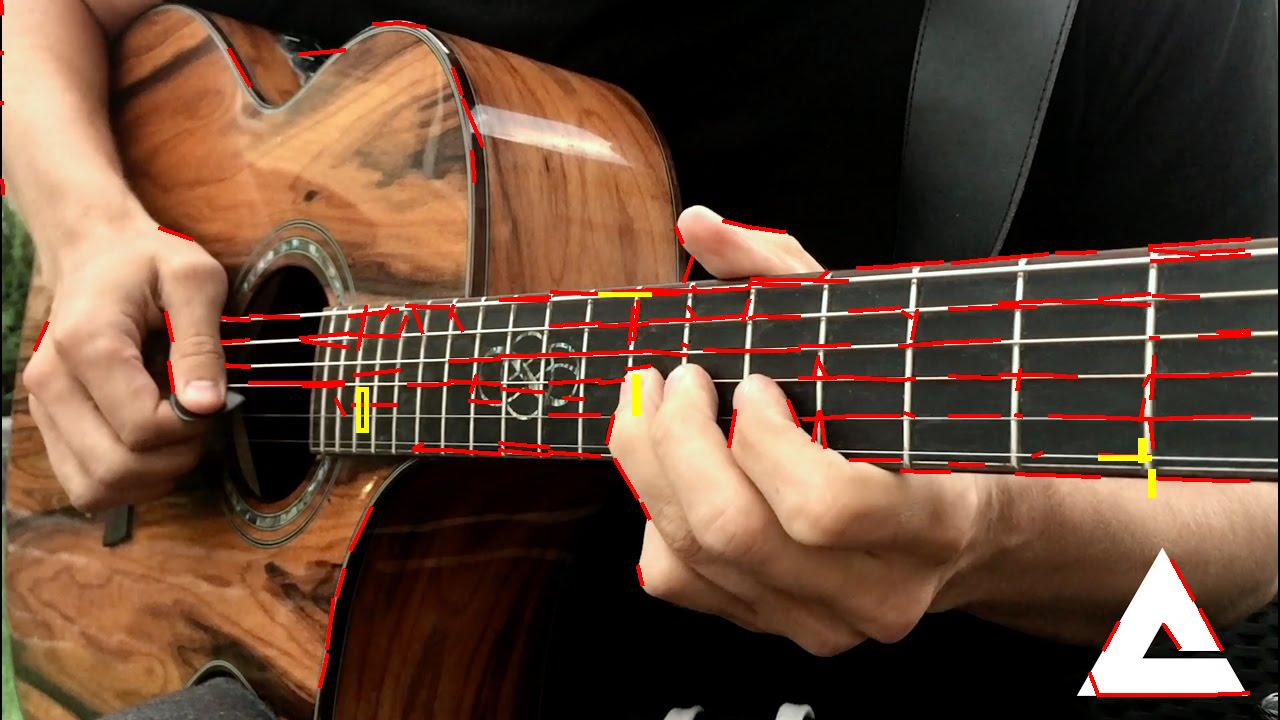
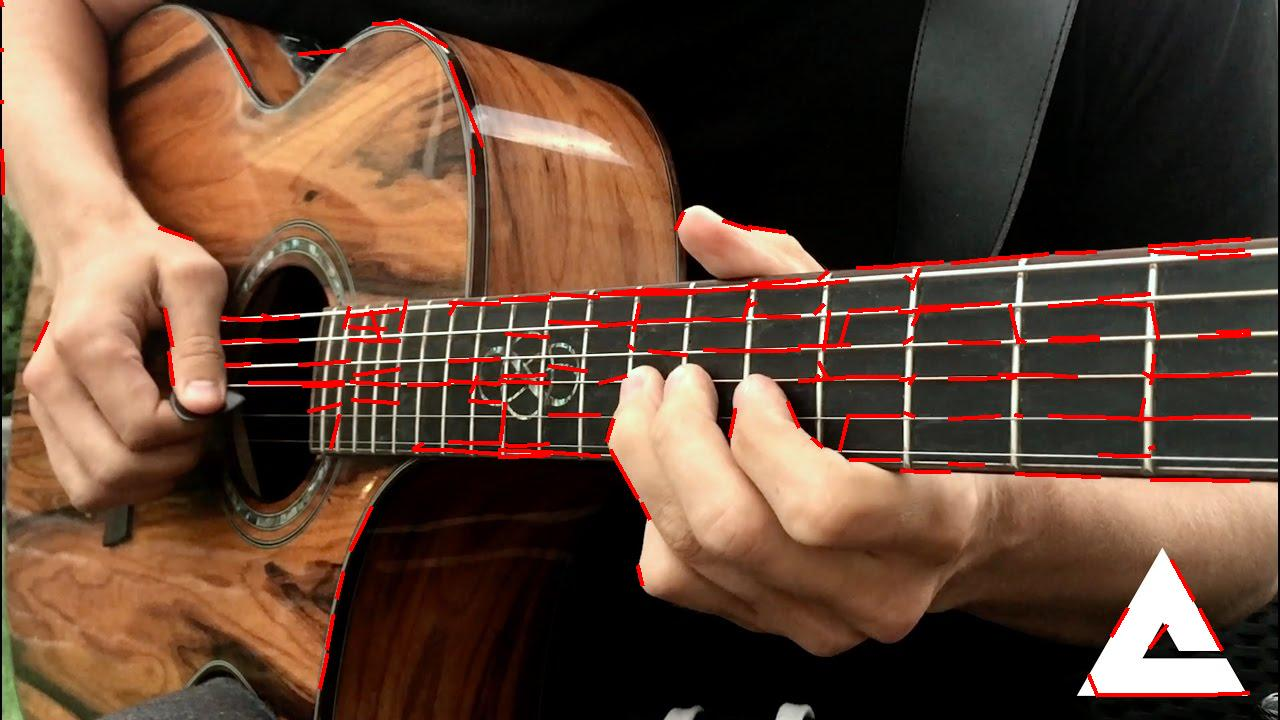
h

diff --git a/CVLab5/src/cvlab5/Ransac.java b/CVLab5/src/cvlab5/Ransac.java
@@ -9,9 +9,12 @@ import java.awt.BasicStroke;
 import java.awt.Color;
 import java.awt.Graphics2D;
 import java.awt.Point;
+import java.awt.Polygon;
 import java.awt.Rectangle;
+import java.awt.Shape;
 import java.awt.image.BufferedImage;
 import java.awt.geom.Line2D;
+import java.awt.geom.Point2D;
 import java.util.ArrayList;
 
 /**
@@ -24,8 +27,8 @@ public class Ransac {
     double inliers;
     ArrayList<Line2D> lines;
     int SAMPLEWIDTH;
-    static int ANGLE_TOLERANCE=10;
-    static int DISTANCE_TOLERANCE=15;
+    static int ANGLE_TOLERANCE=12;
+    static int DISTANCE_TOLERANCE=55;
     
     
     public Ransac(int iterations, int threshold, double inliers,int sampleWidth)
@@ -130,25 +133,86 @@ public class Ransac {
         }
         
     }
-    
-    public ArrayList<Rectangle> findRectangles()
+    public static Point getIntersect(Line2D line1, Line2D line2){
+        
+        Point2D s1,d1,s2,d2;
+        s1=line1.getP1();
+        d1=line1.getP2();
+        s2=line2.getP1();
+        d2=line2.getP2();
+        
+        double sNumerator = s1.getY() * d1.getX() + s2.getX() * d1.getY() - s1.getX() * d1.getY() - s2.getY() * d1.getX();
+        double sDenominator = d2.getY() * d1.getX() - d2.getX() * d1.getY();
+
+        // parallel ... 0 or infinite points, or one of the vectors is 0|0
+        if (sDenominator == 0) {
+            return new Point(0,0);
+        }
+
+        double s = sNumerator / sDenominator;
+
+        double t;
+        if (d1.getX() != 0) {
+            t = (s2.getX() + s * d2.getX() - s1.getX()) / d1.getX();
+        } else {
+            t = (s2.getY() + s * d2.getY() - s1.getY()) / d1.getY();
+        }
+
+        Point intersect = new Point((int)(s1.getX() + t * d1.getX()), (int)(s1.getY() + t * d1.getY()));
+
+        return intersect;
+    }
+    public void JoinLines(Line2D line1,Line2D line2)
     {
-        ArrayList<Rectangle> res=new ArrayList<>();
+            if (line1.getP2().distance(line2.getP1())<=DISTANCE_TOLERANCE) {
+                line2.setLine(line1.getP2(), line2.getP2());
+                return;
+            }
+                    
+            if (line1.getP2().distance(line2.getP2())<=DISTANCE_TOLERANCE) {
+                line2.setLine(line2.getP1(), line1.getP2());
+                return;                
+            }
+            if (line1.getP1().distance(line2.getP1())<=DISTANCE_TOLERANCE) {
+                line2.setLine(line1.getP1(), line2.getP2());
+                return;                
+            }
+            if (line1.getP1().distance(line2.getP2())<=DISTANCE_TOLERANCE) {
+                line2.setLine(line2.getP1(), line1.getP1());
+                return;                
+                
+            }
+        
+    }
+    public ArrayList<Shape> findRectangles()
+    {
+        ArrayList<Shape> res=new ArrayList<>();
         for (Line2D line:lines){
             ArrayList<Line2D> candidati=new ArrayList<Line2D>(lines);
             candidati.remove(line);
             
-            Line2D muchie1=findNextMuchie(line, candidati);
-            if (muchie1==null) continue;
-            
             Line2D muchie2=findNextMuchie(line, candidati);
             if (muchie2==null) continue;
-            
-            Line2D muchie3=findNextMuchie(line, candidati);
+            candidati.remove(muchie2);
+            Line2D muchie1=line;
+            JoinLines(muchie1, muchie2);
+                   
+            Line2D muchie3=findNextMuchie(muchie2, candidati);
             if (muchie3==null) continue;
+            candidati.remove(muchie3);
+            JoinLines(muchie2, muchie3);
             
-            Line2D muchie4=findNextMuchie(line, candidati);
+            Line2D muchie4=findNextMuchie(muchie3, candidati);
             if (muchie4==null) continue;
+            candidati.remove(muchie4);
+            JoinLines(muchie3, muchie4);
+            
+            /*
+            Point p1=getIntersect(muchie1, muchie2),
+                    p2=getIntersect(muchie2, muchie3),
+                    p3=getIntersect(muchie3, muchie4),
+                    p4=getIntersect(muchie4, muchie1)
+                    ;
             double x1=Math.min(
                     Math.min(
                         Math.min(muchie1.getX1(), muchie1.getX2()),
@@ -189,18 +253,35 @@ public class Ransac {
                         Math.max(muchie4.getY1(), muchie4.getY2())
                     )
             );
-            
             res.add(new Rectangle((int)x1,(int)y2,(int)(x2-x1),(int)(y2-y1)));
-            
-            
+            */
+            /*
+            res.add(new Polygon(
+                     new int[]{p1.x,p2.x,p3.x,p4.x},
+                     new int[]{p1.y,p2.y,p3.y,p4.y},
+                     4));
+            */
+            res.add(new Polygon(
+                     new int[]{(int)muchie1.getX1(),(int)muchie1.getX2(),
+                                (int)muchie2.getX1(),(int)muchie2.getX2(),
+                                (int)muchie3.getX1(),(int)muchie3.getX2(),
+                                (int)muchie4.getX1(),(int)muchie4.getX2()},
+                     new int[]{(int)muchie1.getY1(),(int)muchie1.getY2(),
+                                (int)muchie2.getY1(),(int)muchie2.getY2(),
+                                (int)muchie3.getY1(),(int)muchie3.getY2(),
+                                (int)muchie4.getY1(),(int)muchie4.getY2()},
+                     4));
+           
         }
         return res;
     }
     private Line2D findNextMuchie(Line2D fromline, ArrayList<Line2D> candidati)
     {
-        for(Line2D line:lines){
+        for(Line2D line:candidati){
             if ((fromline.getP2().distance(line.getP1())<=DISTANCE_TOLERANCE) ||
-                (fromline.getP2().distance(line.getP2())<=DISTANCE_TOLERANCE)){
+                (fromline.getP2().distance(line.getP2())<=DISTANCE_TOLERANCE) ||
+                (fromline.getP1().distance(line.getP1())<=DISTANCE_TOLERANCE) ||
+                (fromline.getP1().distance(line.getP2())<=DISTANCE_TOLERANCE)){
                 double angle=getAngle(fromline, line);
                 if (Math.abs(90-angle)<=ANGLE_TOLERANCE)
                     return line;

diff --git a/CVLab5/src/cvlab5/CVLab5.java b/CVLab5/src/cvlab5/CVLab5.java
@@ -9,7 +9,9 @@ import static cvlab5.Ransac.ANGLE_TOLERANCE;
 import java.awt.BasicStroke;
 import java.awt.Color;
 import java.awt.Graphics2D;
+import java.awt.Polygon;
 import java.awt.Rectangle;
+import java.awt.Shape;
 import java.awt.geom.Line2D;
 import java.awt.image.BufferedImage;
 import java.io.File;
@@ -43,25 +45,21 @@ public class CVLab5 {
         BufferedImage image2=ImageIO.read(file2);              
         rans.drawLines(image2);
 
+        Lab5Helper.writeImageFile(image2, file, "rans1");
         
         Graphics2D g2d = image2.createGraphics();
         g2d.setColor(Color.yellow);
         g2d.setPaint(Color.yellow);
-        BasicStroke bs = new BasicStroke(5);
+        BasicStroke bs = new BasicStroke(2);
         g2d.setStroke(bs);    
         
-        for(Rectangle r:rans.findRectangles()){
-            g2d.drawRect((int)r.getMinX(),(int)r.getMaxY(), (int)r.getWidth(), (int)r.getHeight());
+        for(Shape s:rans.findRectangles()){
+            //Rectangle r=(Rectangle)s;
+            g2d.drawPolygon((Polygon)s);
+            //g2d.drawRect((int)r.getMinX(),(int)r.getMaxY(), (int)r.getWidth(), (int)r.getHeight());
         }
 
-        Lab5Helper.writeImageFile(image2, file, "rans1");
-        
-        double angle=Ransac.getAngle(
-                new Line2D.Double(3.68,19.74,15.02,4.3),
-                new Line2D.Double(16.94,4.62,23.06,20.8)
-        );
-        System.out.println(angle);
-                
+        Lab5Helper.writeImageFile(image2, file, "rans2");
                 
       
     }
